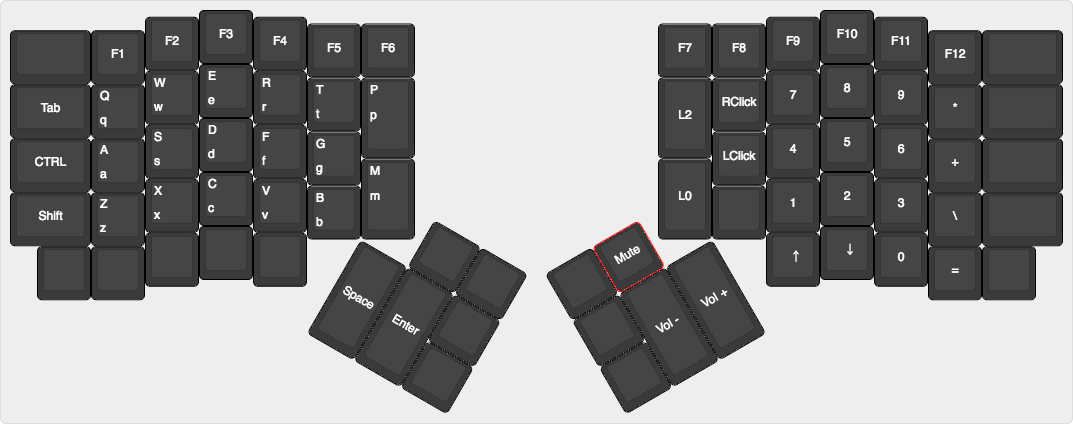
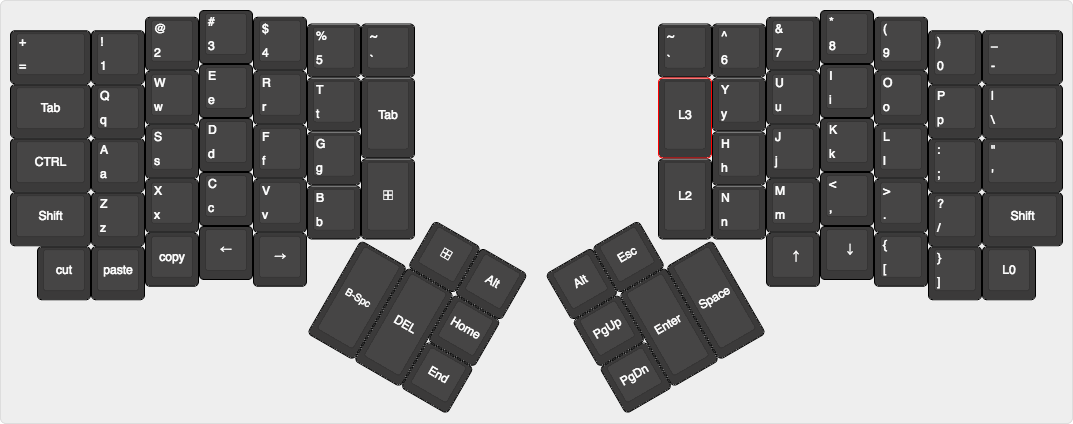
fixed Layer key position and readme

diff --git a/keyboard/ergodox_ez/keymaps/default/keymap.c b/keyboard/ergodox_ez/keymaps/default/keymap.c
@@ -16,10 +16,10 @@ const uint16_t PROGMEM keymaps[][MATRIX_ROWS][MATRIX_COLS] = {
  * ,--------------------------------------------------.           ,--------------------------------------------------.
  * |   =    |   1  |   2  |   3  |   4  |   5  | `~   |           | `~   |   6  |   7  |   8  |   9  |   0  |   -    |
  * |--------+------+------+------+------+-------------|           |------+------+------+------+------+------+--------|
- * | Tab    |   Q  |   W  |   E  |   R  |   T  | Tab  |           | LFn  |   Y  |   U  |   I  |   O  |   P  |   \    |
+ * | Tab    |   Q  |   W  |   E  |   R  |   T  | Tab  |           |LMouse|   Y  |   U  |   I  |   O  |   P  |   \    |
  * |--------+------+------+------+------+------|      |           |      |------+------+------+------+------+--------|
  * | CTRL   |   A  |   S  |   D  |   F  |   G  |------|           |------|   H  |   J  | K/Gui|   L  |   ;  |   '"   |
- * |--------+------+------+------+------+------| LGui |           |LMouse|------+------+------+------+------+--------|
+ * |--------+------+------+------+------+------| LGui |           | LFn  |------+------+------+------+------+--------|
  * | LShift |   Z  |   X  |   C  |   V  |   B  |      |           |      |   N  |   M  |   ,  |   .  |   /  | RShift |
  * `--------+------+------+------+------+-------------'           `-------------+------+------+------+------+--------'
  *   |  cut | paste| copy | Left | Right|                                       |  Up  | Down |   [  |   ]  | LWin  |
@@ -46,9 +46,9 @@ const uint16_t PROGMEM keymaps[][MATRIX_ROWS][MATRIX_COLS] = {
                                                                KC_BSPC,KC_DELT,KC_END,
         // right hand
              KC_GRV,      KC_6,   KC_7,   KC_8,   KC_9,   KC_0,             KC_MINS,
-             MO(FN),      KC_Y,   KC_U,   KC_I,   KC_O,   KC_P,             KC_BSLS,
+             TO(MOUSE,1), KC_Y,   KC_U,   KC_I,   KC_O,   KC_P,             KC_BSLS,
                           KC_H,   KC_J,   KC_K,   KC_L,   KC_SCLN,          KC_QUOT,
-             TO(MOUSE,1), KC_N,   KC_M,   KC_COMM,KC_DOT, KC_SLSH,          KC_RSFT,
+             MO(FN),      KC_N,   KC_M,   KC_COMM,KC_DOT, KC_SLSH,          KC_RSFT,
                                   KC_UP,  KC_DOWN,KC_LBRC,KC_RBRC,          TO(WINDOWS,1),
              KC_LALT,        KC_ESC,
              KC_PGUP,
@@ -60,10 +60,10 @@ const uint16_t PROGMEM keymaps[][MATRIX_ROWS][MATRIX_COLS] = {
  * ,--------------------------------------------------.           ,--------------------------------------------------.
  * |   =    |   1  |   2  |   3  |   4  |   5  | `~   |           |  `~  |   6  |   7  |   8  |   9  |   0  |   -    |
  * |--------+------+------+------+------+-------------|           |------+------+------+------+------+------+--------|
- * | Tab    |   Q  |   W  |   E  |   R  |   T  | Tab  |           | LFn  |   Y  |   U  |   I  |   O  |   P  |   \    |
+ * | Tab    |   Q  |   W  |   E  |   R  |   T  | Tab  |           |LMouse|   Y  |   U  |   I  |   O  |   P  |   \    |
  * |--------+------+------+------+------+------|      |           |      |------+------+------+------+------+--------|
  * | CTRL   |   A  |   S  |   D  |   F  |   G  |------|           |------|   H  |   J  |   K  |   L  |   ;  |   '"   |
- * |--------+------+------+------+------+------| LGui |           |LMouse|------+------+------+------+------+--------|
+ * |--------+------+------+------+------+------| LGui |           | LFn  |------+------+------+------+------+--------|
  * | LShift |   Z  |   X  |   C  |   V  |   B  |      |           |      |   N  |   M  |   ,  |   .  |   /  | RShift |
  * `--------+------+------+------+------+-------------'           `-------------+------+------+------+------+--------'
  *   |  cut | paste| copy | Left | Right|                                       |  Up  | Down |   [  |   ]  | LMac |
@@ -90,9 +90,9 @@ const uint16_t PROGMEM keymaps[][MATRIX_ROWS][MATRIX_COLS] = {
                                                KC_BSPC,KC_DELT,KC_END,
         // right hand
              KC_GRV,      KC_6,   KC_7,   KC_8,   KC_9,   KC_0,             KC_MINS,
-             MO(FN),      KC_Y,   KC_U,   KC_I,   KC_O,   KC_P,             KC_BSLS,
+             TO(MOUSE,1), KC_Y,   KC_U,   KC_I,   KC_O,   KC_P,             KC_BSLS,
                           KC_H,   KC_J,   KC_K,   KC_L,   KC_SCLN,          KC_QUOT,
-             TO(MOUSE,1) ,KC_N,   KC_M,   KC_COMM,KC_DOT, KC_SLSH,          KC_RSFT,
+             MO(FN),      KC_N,   KC_M,   KC_COMM,KC_DOT, KC_SLSH,          KC_RSFT,
                                   KC_UP,  KC_DOWN,KC_LBRC,KC_RBRC,          TO(OSX,1),
              KC_LALT,        KC_ESC,
              KC_PGUP,

diff --git a/keyboard/ergodox_ez/keymaps/default/readme.md b/keyboard/ergodox_ez/keymaps/default/readme.md
@@ -1,14 +1,17 @@
 # ErgoDox EZ Default Configuration
 ## Layout
 
-### [Layer 0](http://goo.gl/qteHWJ)
+### [Layer 0](http://goo.gl/hzV8tn)
 ![Layer 0](keyboard-layout-L0.png)
 
-### [Layer 1](http://goo.gl/tBx58O)
+### [Layer 1](http://goo.gl/cEbdHQ)
 ![Layer 1](keyboard-layout-L1.png)
 
-### [Layer 2](http://goo.gl/glWmrM)
+### [Layer 2](http://goo.gl/FvFnuI)
 ![Layer 2](keyboard-layout-L2.png)
+
+### [Layer 3](http://goo.gl/HafC6A)
+![Layer 3](keyboard-layout-L3.png)
 
 ## Changelog
 
